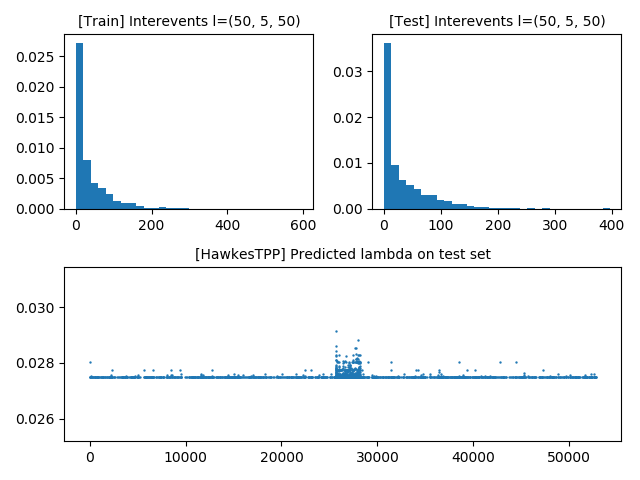
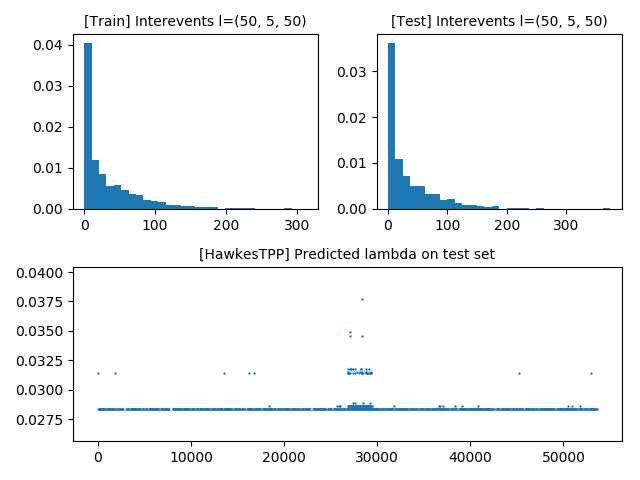
results

diff --git a/src/generated_with_step_train.py b/src/generated_with_step_train.py
@@ -11,7 +11,7 @@ from v2.GRUPointProcess import GRUPointProcess
 from v2.LSTMPointProcess import LSTMPointProcess
 from v2.RNNPointProcess import RNNPointProcess
 from v2 import BaseBaselineTraining as bb_train
-from v2 import BaseTraining as bb_train
+# from v2 import BaseTraining as bb_train
 from v2.FCNPointProcess import FCNPointProcess
 from v2.PoissonTPP import PoissonTPP
 from v2.PoissonPolynomialTPP import PoissonPolynomialTPP
@@ -66,19 +66,19 @@ if __name__ == "__main__":
         {'rule': 'Euler', 'no_step': 3, 'learning_rate': 0.01}
     ]
     models_to_evaluate = [
-        # {'model': PoissonTPP, 'type': 'baseline', 'learning_param_map': learning_param_map},
-        # {'model': PoissonPolynomialTPP, 'type': 'baseline', 'learning_param_map': [{
-        #     'rule': 'Euler', 'no_step': 3, 'learning_rate': 0.1
-        # }]},
-        # {'model': IntereventRegressorTPP, 'type': 'ir', 'learning_param_map': [{
-        #     'rule': 'Euler', 'no_step': 3, 'learning_rate': 0.1
-        # }]},
-        # {'model': HawkesTPP, 'type': 'baseline', 'learning_param_map': learning_param_map},
+        {'model': PoissonTPP, 'type': 'baseline', 'learning_param_map': learning_param_map},
+        {'model': PoissonPolynomialTPP, 'type': 'baseline', 'learning_param_map': [{
+             'rule': 'Euler', 'no_step': 3, 'learning_rate': 0.1
+        }]},
+        {'model': IntereventRegressorTPP, 'type': 'ir', 'learning_param_map': [{
+            'rule': 'Euler', 'no_step': 3, 'learning_rate': 0.1
+        }]},
+        {'model': HawkesTPP, 'type': 'baseline', 'learning_param_map': learning_param_map},
         # {'model': HawkesSumGaussianTPP, 'type': 'baseline', 'learning_param_map': learning_param_map}
         # {'model': FCNPointProcess, 'type': 'nn', 'learning_param_map': learning_param_map},
-        {'model': RNNPointProcess, 'type': 'nn', 'learning_param_map': learning_param_map},
-        {'model': GRUPointProcess, 'type': 'nn', 'learning_param_map': learning_param_map},
-        {'model': LSTMPointProcess, 'type': 'nn', 'learning_param_map': learning_param_map},
+        # {'model': RNNPointProcess, 'type': 'nn', 'learning_param_map': learning_param_map},
+        # {'model': GRUPointProcess, 'type': 'nn', 'learning_param_map': learning_param_map},
+        # {'model': LSTMPointProcess, 'type': 'nn', 'learning_param_map': learning_param_map},
     ]
     print(f'Train size: {str(train_time.shape[1])}, test size: {str(test_time.shape[1])} ('
           f'{round((test_time.shape[1] / (train_time.shape[1] + test_time.shape[1])), 2)} %).')

diff --git a/src/generated_with_const_train.py b/src/generated_with_const_train.py
@@ -96,14 +96,14 @@ if __name__ == "__main__":
         {'rule': 'Euler', 'no_step': 3, 'learning_rate': 0.01}
     ]
     models_to_evaluate = [
-        # {'model': PoissonTPP, 'type': 'baseline', 'learning_param_map': learning_param_map},
-        # {'model': PoissonPolynomialTPP, 'type': 'baseline', 'learning_param_map': [{
-        #     'rule': 'Euler', 'no_step': 3, 'learning_rate': 0.1
-        # }]},
-        # {'model': IntereventRegressorTPP, 'type': 'ir', 'learning_param_map': [{
-        #     'rule': 'Euler', 'no_step': 3, 'learning_rate': 0.1
-        # }]},
-        # {'model': HawkesTPP, 'type': 'baseline', 'learning_param_map': learning_param_map},
+        {'model': PoissonTPP, 'type': 'baseline', 'learning_param_map': learning_param_map},
+        {'model': PoissonPolynomialTPP, 'type': 'baseline', 'learning_param_map': [{
+             'rule': 'Euler', 'no_step': 3, 'learning_rate': 0.1
+        }]},
+        {'model': IntereventRegressorTPP, 'type': 'ir', 'learning_param_map': [{
+             'rule': 'Euler', 'no_step': 3, 'learning_rate': 0.1
+         }]},
+        {'model': HawkesTPP, 'type': 'baseline', 'learning_param_map': learning_param_map},
         # {'model': HawkesSumGaussianTPP, 'type': 'baseline', 'learning_param_map': learning_param_map}
         # {'model': FCNPointProcess, 'type': 'nn', 'learning_param_map': learning_param_map},
         {'model': RNNPointProcess, 'type': 'nn', 'learning_param_map': learning_param_map},
